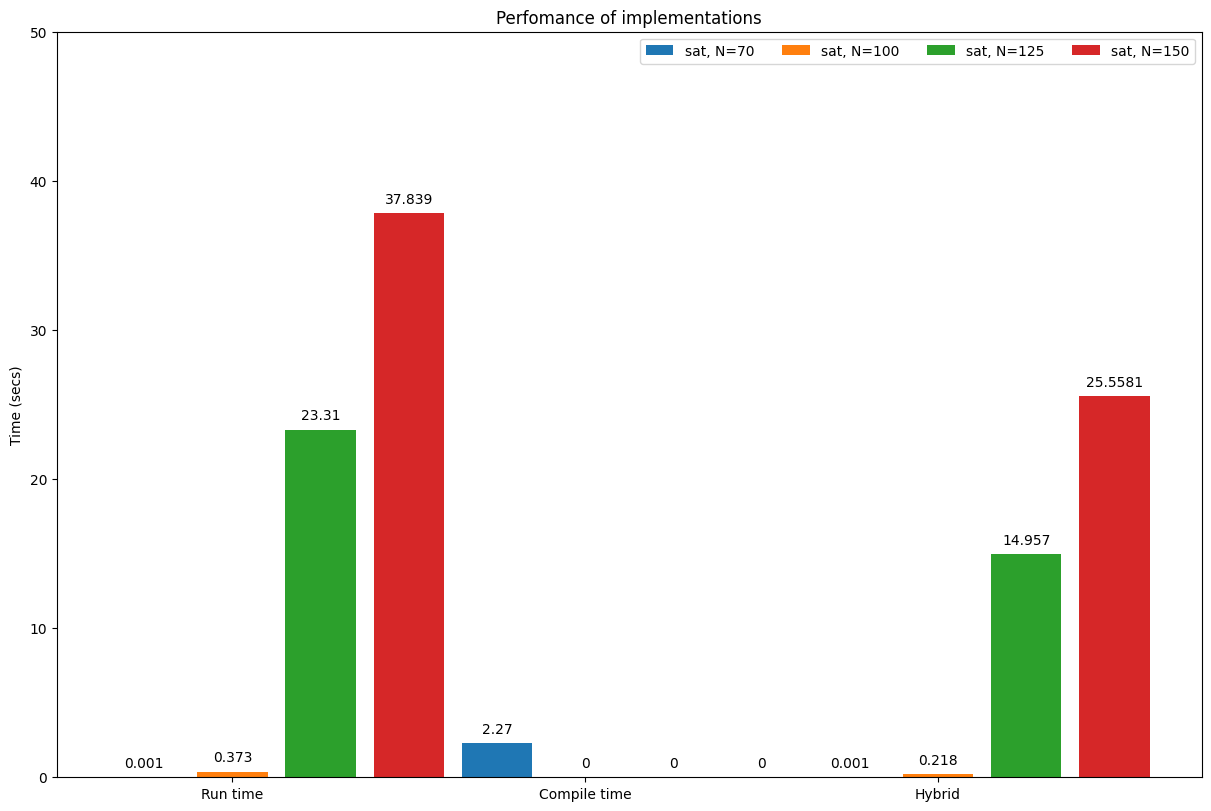
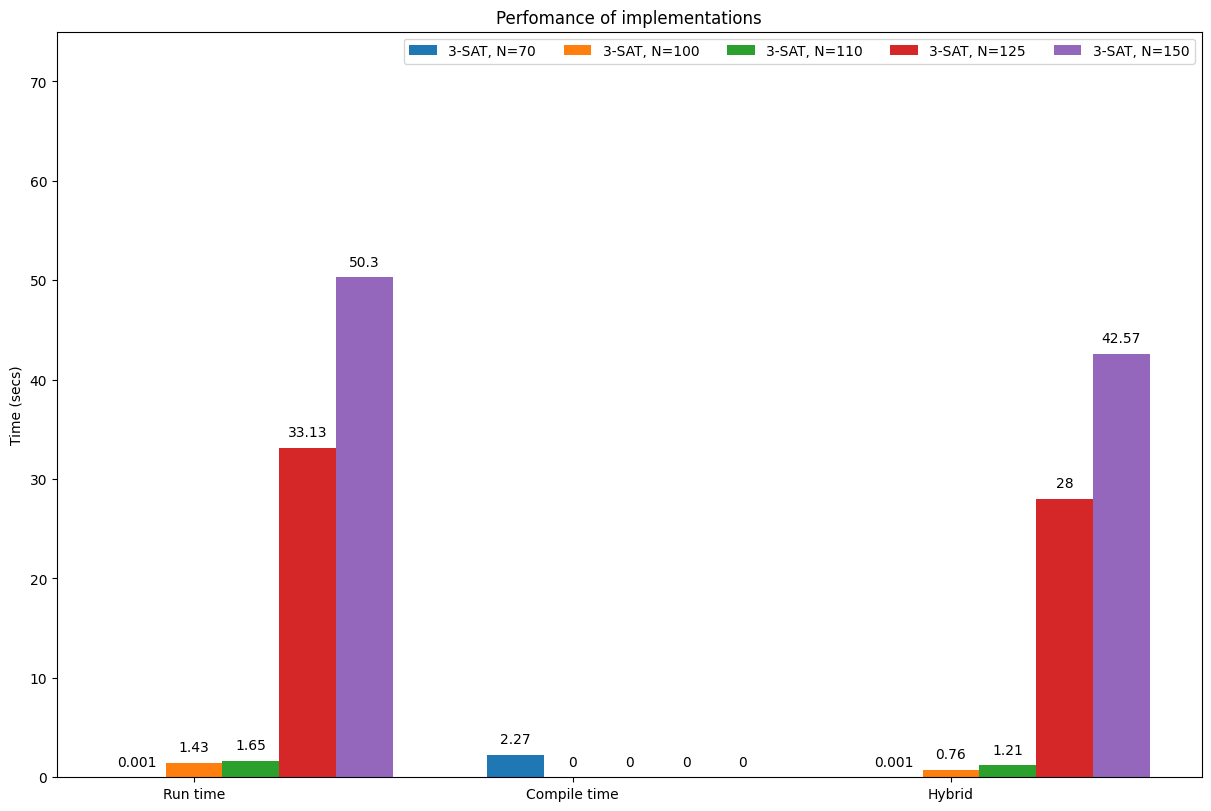
[sat3] Perfomance stats updated (#5)
Added new tests
Readme upd

diff --git a/tests/unit/sat_hybrid.cc b/tests/unit/sat_hybrid.cc
@@ -705,3 +705,101 @@ TEST(HybridGen, TrueExample150) {
     const auto res = sat.try_solve();
     EXPECT_TRUE(res.has_value());
 }
+
+TEST(HybridGen, FalseExample160_5) {
+    constexpr int ClauseNum = 160;
+    constexpr int VarsNum = 5;
+
+    constexpr std::array<sat::Clause, ClauseNum> clauses = {{
+        {1, -5, -1},  {-5, -2, -4}, {-3, 3, 5},   {-2, -5, 3},  {-4, 2, 1},
+        {-3, -5, 1},  {3, -5, -3},  {3, -4, -4},  {2, 3, -4},   {2, 2, -3},
+        {3, 1, 2},    {-3, -4, 4},  {-1, 2, -4},  {5, 4, 3},    {-2, -2, 4},
+        {-1, -5, -2}, {-2, 5, 3},   {4, -1, 3},   {1, 2, -5},   {2, 1, -3},
+        {3, 3, 3},    {-4, 5, -4},  {-3, -3, -4}, {-4, 4, -5},  {-2, 1, 5},
+        {-3, -4, -4}, {2, 3, -4},   {-3, -1, 1},  {-5, 4, 3},   {5, -2, -5},
+        {4, -4, -3},  {5, -2, -3},  {-4, 4, -4},  {1, -1, 3},   {5, 2, 3},
+        {4, 4, 2},    {2, -4, -5},  {-2, -4, 2},  {-5, 3, -4},  {2, 5, 5},
+        {5, 1, -4},   {-4, -2, -1}, {-1, 3, 1},   {5, 4, -3},   {-1, 3, 3},
+        {1, 3, -3},   {4, -4, -2},  {-5, -2, -2}, {2, 3, -5},   {-5, 4, 2},
+        {5, 5, 5},    {1, -3, 3},   {1, 2, 4},    {5, 5, 1},    {1, -5, 1},
+        {-5, -1, 1},  {-1, -3, -2}, {1, 3, 4},    {5, -1, -2},  {-1, -2, -1},
+        {-3, 1, -2},  {3, -3, -5},  {-3, 5, -5},  {-2, 1, 3},   {-3, 1, -3},
+        {1, 2, 2},    {3, 4, 3},    {-2, 5, -3},  {1, -4, 3},   {4, 1, -4},
+        {5, 5, -2},   {5, 5, -2},   {-2, 5, -1},  {-5, -3, 1},  {1, 1, 2},
+        {-3, 3, -5},  {-3, -2, 4},  {-5, -5, 3},  {5, -5, -2},  {5, 1, 5},
+        {3, 2, -5},   {-2, 1, 1},   {-2, -3, 3},  {-2, -4, -3}, {5, -3, -2},
+        {4, 1, 3},    {1, -2, 1},   {-2, 4, 2},   {-4, 2, -5},  {-2, 3, 4},
+        {-3, -5, 1},  {-3, 1, 2},   {-2, 5, 4},   {-3, 5, -3},  {1, 3, 2},
+        {-4, 5, -5},  {-1, -5, 5},  {3, 4, -5},   {2, -4, 5},   {-2, 2, 4},
+        {-5, -2, -2}, {5, -3, -5},  {1, 3, -4},   {-1, -1, 4},  {-2, 3, -5},
+        {-2, 2, 4},   {-4, 1, -2},  {5, -3, -2},  {2, -2, -5},  {2, -4, 2},
+        {-5, 5, -4},  {2, -3, 2},   {-5, -3, 2},  {2, -3, -4},  {-5, -1, 3},
+        {3, 4, 3},    {1, -3, -2},  {-4, 2, 5},   {5, -5, -2},  {-4, 3, -3},
+        {-5, -5, 2},  {1, -4, 2},   {-4, -5, 1},  {-1, 4, -3},  {-5, -5, -3},
+        {4, 4, -5},   {-5, 1, -5},  {-4, -3, -3}, {2, 5, -1},   {2, 4, 3},
+        {-5, -1, -3}, {3, 4, -5},   {-4, -4, -5}, {-1, 5, -4},  {-2, 1, -3},
+        {-2, -2, 5},  {-2, 1, -2},  {-3, -1, 5},  {3, -1, -5},  {5, 4, 4},
+        {1, -3, -3},  {-5, -3, 2},  {1, 1, 3},    {-4, -5, 1},  {-4, 2, -4},
+        {4, -4, -3},  {-3, 5, -3},  {-1, 2, 4},   {2, 3, 1},    {-3, 3, -4},
+        {-1, -3, -1}, {5, 4, -2},   {2, 5, 2},    {1, 5, 4},    {4, -4, 4},
+        {-2, 5, -4},  {-1, 2, -3},  {-3, 1, -3},  {-5, 1, 5},   {2, 5, 1},
+    }};
+
+    sat::SAT<ClauseNum, VarsNum> sat{clauses};
+    const auto res = sat.try_solve();
+
+    EXPECT_FALSE(res.has_value());
+}
+
+TEST(HybridGen, TrueExample160_33) {
+    constexpr int ClauseNum = 160;
+    constexpr int VarsNum = 33;
+
+    constexpr std::array<sat::Clause, ClauseNum> clauses = {{
+        {-20, 6, 8},     {-15, 25, -16},  {-9, -31, 3},   {-4, 5, 33},
+        {-5, -3, -19},   {-22, 21, 16},   {-1, 12, 18},   {-33, 28, -19},
+        {-7, -8, 4},     {21, -28, -10},  {6, -33, -2},   {15, -25, 2},
+        {-31, 11, -3},   {-15, 13, 3},    {24, 14, 31},   {23, 10, 27},
+        {-8, -5, -11},   {-22, 25, 33},   {-21, -10, 5},  {12, -13, 12},
+        {-21, 14, -4},   {-21, 25, 15},   {32, 32, 24},   {16, 10, 5},
+        {18, -23, 15},   {-32, -33, -16}, {-6, -32, 23},  {30, -8, 5},
+        {26, 31, 22},    {28, -9, 12},    {13, 16, -9},   {-20, -4, 20},
+        {-22, -5, 27},   {21, 29, -7},    {25, 11, -15},  {28, -18, 17},
+        {23, 27, -13},   {-29, 10, 18},   {21, -1, 9},    {-4, 4, 5},
+        {8, 18, 17},     {13, 10, 15},    {8, 19, -22},   {-12, -26, 7},
+        {-28, -9, 31},   {-10, 33, 22},   {-30, 7, 14},   {-21, -13, 13},
+        {-14, 12, 15},   {-1, 2, -19},    {-30, 4, -21},  {-4, -13, -30},
+        {-2, -31, -1},   {-19, -11, 7},   {-32, -30, 11}, {-11, -8, -10},
+        {27, -33, 22},   {-14, -27, -26}, {-30, 20, -32}, {-7, -22, -29},
+        {19, -31, 17},   {17, 16, 8},     {-1, -3, 18},   {-22, -25, -3},
+        {-15, -4, -23},  {-26, 9, 13},    {-33, 17, -9},  {-10, -5, -2},
+        {-17, 12, -5},   {-22, 20, -1},   {-15, 11, 14},  {-19, 25, 6},
+        {10, 5, -31},    {-26, -2, 29},   {24, -4, -15},  {-2, 13, -22},
+        {-21, 14, -8},   {23, -18, -4},   {-11, -2, -5},  {-20, -6, -28},
+        {-10, 10, 17},   {-25, -17, 9},   {2, 5, -4},     {27, -18, 14},
+        {-17, -13, -14}, {-10, -25, 5},   {-11, 9, 5},    {-23, 9, 5},
+        {-5, -8, -11},   {3, 15, 29},     {-21, -3, -24}, {-10, -7, 1},
+        {-8, 3, -16},    {-23, -20, -24}, {-13, 33, 5},   {-14, -17, 5},
+        {-28, -22, 30},  {-29, 29, 1},    {5, 13, -21},   {-33, 26, 7},
+        {-1, 9, 13},     {-5, 14, 1},     {-7, -10, 20},  {-19, -31, 24},
+        {4, 9, 7},       {-13, -3, 8},    {-21, -14, 16}, {11, 11, -14},
+        {32, 32, 20},    {12, 12, 27},    {-33, 1, 31},   {21, -8, -12},
+        {-28, 5, -30},   {1, -2, 30},     {-20, 21, 25},  {-9, 1, 12},
+        {8, 4, 33},      {-8, 5, 8},      {-13, -24, 13}, {6, -30, -32},
+        {-25, -26, 16},  {-29, 19, 14},   {-21, 26, 20},  {-5, 10, 6},
+        {-26, 11, -17},  {12, -14, -25},  {15, -28, 16},  {26, -14, 23},
+        {16, -9, -18},   {13, 20, -26},   {15, 30, -8},   {-27, -9, -25},
+        {21, -29, -8},   {-13, 24, 28},   {-21, 14, -26}, {-13, 6, 20},
+        {12, 10, 32},    {10, -3, -31},   {3, 20, 12},    {23, 23, -31},
+        {11, 30, -2},    {-21, -31, -22}, {31, -6, 5},    {25, 14, 28},
+        {-13, -8, 26},   {24, -19, -18},  {-26, -14, 16}, {10, 4, 23},
+        {-18, 3, 24},    {31, 7, -8},     {27, -23, 5},   {29, -29, 2},
+        {26, -4, 16},    {-17, 7, 33},    {-21, 27, -17}, {-2, -6, 27},
+        {11, -4, 12},    {-9, -25, -6},   {14, 4, 3},     {-1, 16, 31},
+    }};
+
+    sat::SAT<ClauseNum, VarsNum> sat{clauses};
+    const auto res = sat.try_solve();
+
+    EXPECT_TRUE(res.has_value());
+}

diff --git a/tests/unit/sat_runtime.cc b/tests/unit/sat_runtime.cc
@@ -574,3 +574,43 @@ TEST(RunTimeGen, TrueExample150) {
     const auto res = sat.try_solve();
     EXPECT_TRUE(res.has_value());
 }
+
+TEST(RuntimeTimeGen, FalseExample160_5) {
+    sat::SAT sat{{
+        {1, -5, -1},  {-5, -2, -4}, {-3, 3, 5},   {-2, -5, 3},  {-4, 2, 1},
+        {-3, -5, 1},  {3, -5, -3},  {3, -4, -4},  {2, 3, -4},   {2, 2, -3},
+        {3, 1, 2},    {-3, -4, 4},  {-1, 2, -4},  {5, 4, 3},    {-2, -2, 4},
+        {-1, -5, -2}, {-2, 5, 3},   {4, -1, 3},   {1, 2, -5},   {2, 1, -3},
+        {3, 3, 3},    {-4, 5, -4},  {-3, -3, -4}, {-4, 4, -5},  {-2, 1, 5},
+        {-3, -4, -4}, {2, 3, -4},   {-3, -1, 1},  {-5, 4, 3},   {5, -2, -5},
+        {4, -4, -3},  {5, -2, -3},  {-4, 4, -4},  {1, -1, 3},   {5, 2, 3},
+        {4, 4, 2},    {2, -4, -5},  {-2, -4, 2},  {-5, 3, -4},  {2, 5, 5},
+        {5, 1, -4},   {-4, -2, -1}, {-1, 3, 1},   {5, 4, -3},   {-1, 3, 3},
+        {1, 3, -3},   {4, -4, -2},  {-5, -2, -2}, {2, 3, -5},   {-5, 4, 2},
+        {5, 5, 5},    {1, -3, 3},   {1, 2, 4},    {5, 5, 1},    {1, -5, 1},
+        {-5, -1, 1},  {-1, -3, -2}, {1, 3, 4},    {5, -1, -2},  {-1, -2, -1},
+        {-3, 1, -2},  {3, -3, -5},  {-3, 5, -5},  {-2, 1, 3},   {-3, 1, -3},
+        {1, 2, 2},    {3, 4, 3},    {-2, 5, -3},  {1, -4, 3},   {4, 1, -4},
+        {5, 5, -2},   {5, 5, -2},   {-2, 5, -1},  {-5, -3, 1},  {1, 1, 2},
+        {-3, 3, -5},  {-3, -2, 4},  {-5, -5, 3},  {5, -5, -2},  {5, 1, 5},
+        {3, 2, -5},   {-2, 1, 1},   {-2, -3, 3},  {-2, -4, -3}, {5, -3, -2},
+        {4, 1, 3},    {1, -2, 1},   {-2, 4, 2},   {-4, 2, -5},  {-2, 3, 4},
+        {-3, -5, 1},  {-3, 1, 2},   {-2, 5, 4},   {-3, 5, -3},  {1, 3, 2},
+        {-4, 5, -5},  {-1, -5, 5},  {3, 4, -5},   {2, -4, 5},   {-2, 2, 4},
+        {-5, -2, -2}, {5, -3, -5},  {1, 3, -4},   {-1, -1, 4},  {-2, 3, -5},
+        {-2, 2, 4},   {-4, 1, -2},  {5, -3, -2},  {2, -2, -5},  {2, -4, 2},
+        {-5, 5, -4},  {2, -3, 2},   {-5, -3, 2},  {2, -3, -4},  {-5, -1, 3},
+        {3, 4, 3},    {1, -3, -2},  {-4, 2, 5},   {5, -5, -2},  {-4, 3, -3},
+        {-5, -5, 2},  {1, -4, 2},   {-4, -5, 1},  {-1, 4, -3},  {-5, -5, -3},
+        {4, 4, -5},   {-5, 1, -5},  {-4, -3, -3}, {2, 5, -1},   {2, 4, 3},
+        {-5, -1, -3}, {3, 4, -5},   {-4, -4, -5}, {-1, 5, -4},  {-2, 1, -3},
+        {-2, -2, 5},  {-2, 1, -2},  {-3, -1, 5},  {3, -1, -5},  {5, 4, 4},
+        {1, -3, -3},  {-5, -3, 2},  {1, 1, 3},    {-4, -5, 1},  {-4, 2, -4},
+        {4, -4, -3},  {-3, 5, -3},  {-1, 2, 4},   {2, 3, 1},    {-3, 3, -4},
+        {-1, -3, -1}, {5, 4, -2},   {2, 5, 2},    {1, 5, 4},    {4, -4, 4},
+        {-2, 5, -4},  {-1, 2, -3},  {-3, 1, -3},  {-5, 1, 5},   {2, 5, 1},
+    }};
+
+    const auto res = sat.try_solve();
+    EXPECT_FALSE(res.has_value());
+}

diff --git a/README.md b/README.md
@@ -28,11 +28,9 @@ In Russian:
 * Получен график зависимости времени исполнения/компиляции программы от размеров поданной CNF.
 
 ![img](https://github.com/uslsteen/sat_solver/blob/main/pics/perfomance_stats.png)
-
 * Отметим, что при числе триплетов CNF $N> 70$ compile time реализация перестала собираться
 * Runtime и hybrid реализация собирались исполнялись за время, меньшеe 1 ms, при $N \leq 70$
-* Так же можно отметить runtime решения при $N = 125$ удивительно быстро нашлось для корректной 3-SAT (см. [логи исполнения тестов](https://github.com/uslsteen/sat_solver/blob/main/pics/runtime_tests_logs.png))
-* Несмотря на небольшой выбор набор тестов, видно, что hybrid реализация при $N > 70$ заметно быстрее runtime реализации.
+* Несмотря на cравнительно небольшой выбор набор тестов, видно, что hybrid реализация при $N > 70$ заметно быстрее runtime реализации.
 
 ## Build
 
